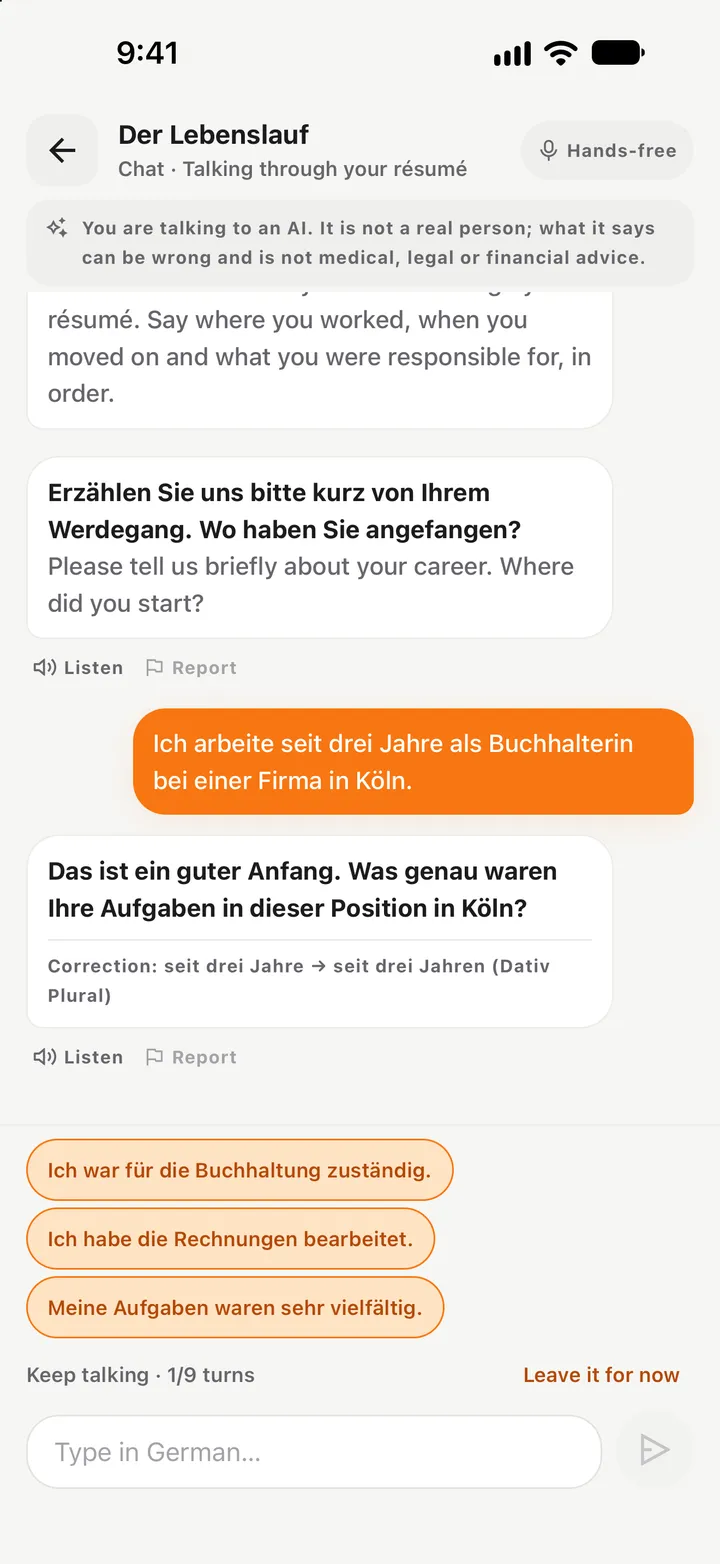
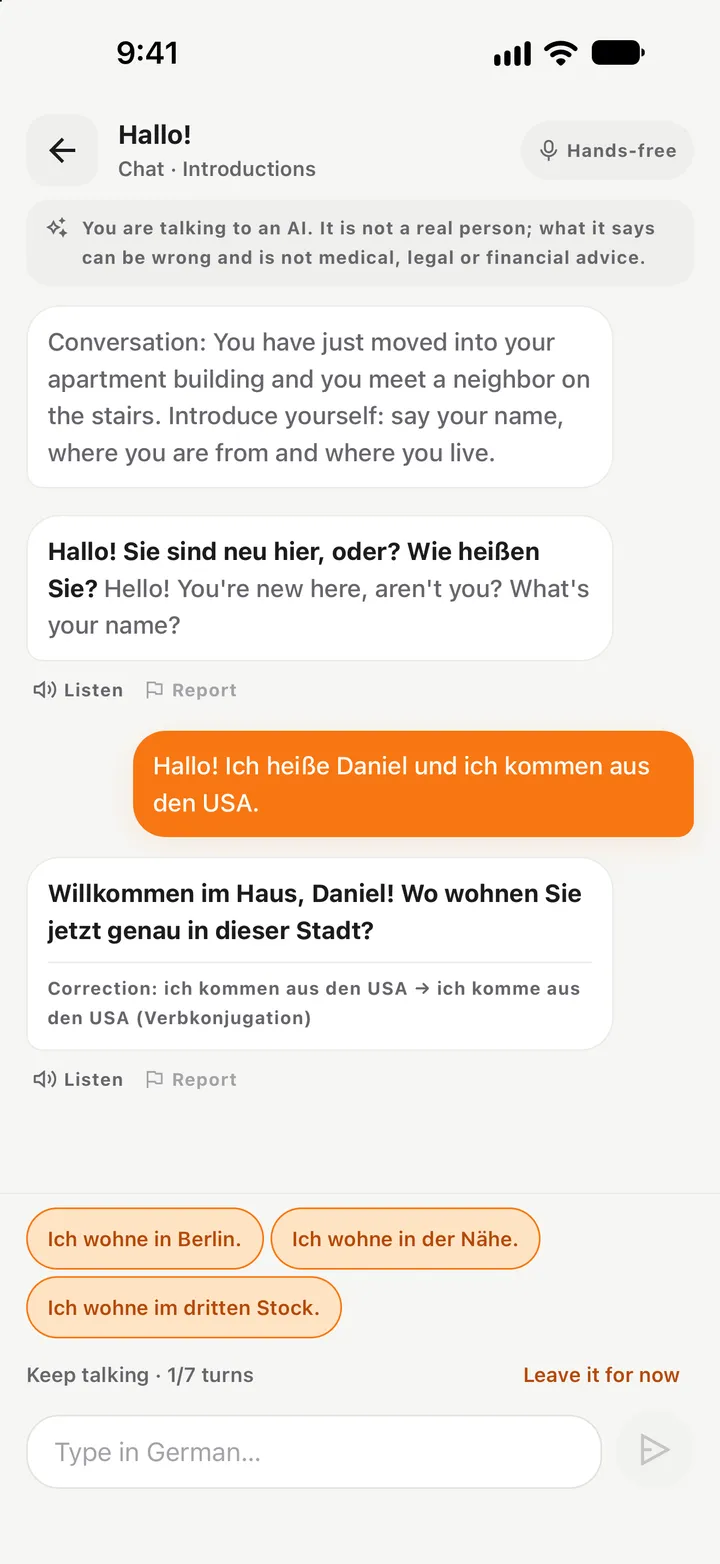
Landing 5. tur: konuşma A1 çekiminden (üç dil, döküm birebir), de sahneleri, ücretsiz satırında yapay zekâ, Beceriler'de B2/C1 resmî yazı
Claude-Session: https://claude.ai/code/session_011dWXugcvRJqz57tBPnvci7

Changed region(s): [[0.0306, 0.1841, 0.9778, 0.89], [0.1528, 0.0614, 0.6417, 0.1228]]

diff --git a/src/content/landing.ts b/src/content/landing.ts
@@ -203,7 +203,7 @@ const tr: LandingCopy = {
     path: "Patika ekranı: A1 seviyesi, şu anki ünite Tanışma ve ben, sıradaki adım konuşma (Hallo!), Devam et düğmesi.",
     unit: "Ünite ekranı: İş dünyası ünitesinin adımları; konuşma adımı tamamlanmış, sıradaki okuma.",
     conversation:
-      "Konuşma adımı: iş görüşmesinde yapay zekâ karakteri soruyor, kullanıcının cevabındaki seit drei Jahre hatası seit drei Jahren olarak düzeltiliyor, altta üç öneri.",
+      "Konuşma adımı: merdivende yeni komşuyla tanışma; yapay zekâ karakteri adını soruyor, kullanıcının cevabındaki ich kommen hatası ich komme olarak düzeltiliyor, altta üç öneri.",
     "mock-task": "Deneme sınavı, yazma bölümü: görev süresi sayacı, Almanca görev ve Türkçe açıklaması, içerik noktaları.",
     "walk-intro": "Yürüyüş modu: Türkçe ipucunu duyarsın, Almanca karşılığını sesli söylersin; bugün kalan tur sayısı.",
     home: "Öğren ekranı: günlük kelime turu, günlük hedef ve günün görevleri.",
@@ -229,30 +229,27 @@ const tr: LandingCopy = {
     more: [
       "Her Konuşma adımı Türkçe bir anlatımla başlar: kullanacağın kalıpları önce kendi dilinde okursun. Karşındakinin yapay zekâ olduğunu uygulama ekranda söyler.",
     ],
-    /* Türkçe arayüzle, Almanca kursunda yapılan konuşmadan (2026-10-01, ekran
-       görüntüsü `public/landing/tr-de/conversation-*`), B1 "Der Lebenslauf". */
+    /* Türkçe arayüzle, Almanca kursunda yapılan konuşmadan (2026-10-05, ekran
+       görüntüsü `public/landing/tr-de/conversation-*`), A1 "Hallo!": merdivende
+       yeni komşuyla tanışma. Yazarak cevaplandı, tek hata fiil çekimi. */
     label: "Almanca kursunda geçen bir konuşma",
-    scene: "B1 · İş görüşmesi",
+    scene: "A1 · Komşuyla tanışma",
     lang: "de",
-    aiName: "Görüşmeci",
+    aiName: "Komşu",
     aiTag: "yapay zekâ",
     me: "Sen",
-    ai1: "Erzählen Sie uns bitte kurz von Ihrem Werdegang. Wo haben Sie angefangen?",
-    ai1Gloss: "Lütfen kariyer yolunuzdan kısaca bahsedin. Nerede başladınız?",
+    ai1: "Hallo! Sie sind neu hier, oder? Wie heißen Sie?",
+    ai1Gloss: "Merhaba! Buraya yeni taşındınız, değil mi? Adınız ne?",
     mine: {
-      before: "Ich arbeite seit drei ",
-      wrong: "Jahre",
-      right: "Jahren",
-      after: " als Buchhalterin bei einer Firma in Köln.",
+      before: "Hallo! Ich heiße Deniz und ich ",
+      wrong: "kommen",
+      right: "komme",
+      after: " aus der Türkei.",
     },
-    fix: "seit'ten sonra Dativ gelir: seit drei Jahren.",
-    ai2: "Das ist ein interessanter Startpunkt. Was genau sind Ihre Aufgaben in dieser Position?",
+    fix: "ich ile fiil -e eki alır: ich komme.",
+    ai2: "Freut mich, Deniz! Ich bin Frau Berger. Wo wohnen Sie jetzt?",
     hintsLabel: "Takılırsan önerir:",
-    hints: [
-      "Ich bin für die Buchhaltung zuständig.",
-      "Ich arbeite in der Finanzabteilung.",
-      "Ich kümmere mich um die Rechnungen.",
-    ],
+    hints: ["Ich wohne in Berlin.", "Ich wohne hier im Haus.", "Ich wohne in der Nähe."],
     caption: "Hata sohbet sürerken düzeltilir.",
   },
   exam: {
@@ -306,7 +303,7 @@ const tr: LandingCopy = {
     id: "beceriler",
     screen: "skills",
     title: "Dili biraz biliyorsan: Beceriler.",
-    lede: "Beceriler'de istediğin seviyeden alıştırma yaparsın; Patika'da o seviyeye gelmeyi beklemen gerekmez.",
+    lede: "Beceriler'de istediğin seviyeden alıştırma yaparsın; Patika'da o seviyeye gelmeyi beklemen gerekmez. B2 ve C1'de başvuru, şikâyet ve resmî mektup yazma görevleri de var.",
     list: ["Okuma", "Dinleme", "Yazma", "Konuşma", "Dil bilgisi"],
     caption: "Beceriler, B1.",
   },
@@ -322,9 +319,9 @@ const tr: LandingCopy = {
       "Kelime çalışma, pratik, okuma, dinleme, dil bilgisi ve quiz ücretsiz ve sınırsız.",
       "Haftalık quiz ve ekran açıkken yürüyüş, günde 3 tur.",
       "Her seviyede 1 deneme sınavı.",
-      "Patika'da her seviyede 2 Konuşma ve 2 Yazma adımı; Beceriler'de 2 konuşma ve 2 yazma değerlendirmesi.",
+      "Yapay zekâyla konuşma ve yazma: Patika'da her seviyede 2 Konuşma ve 2 Yazma adımı; Beceriler'de 2 konuşma ve 2 yazma değerlendirmesi.",
     ],
-    earn: "Bunları bitirip 7 gün üst üste çalışınca 2'şer hak ve 1 deneme sınavı daha açılır; her 7 günde yine.",
+    earn: "Bunları bitirip 7 gün üst üste çalışınca 2'şer yeni hak ve 1 deneme sınavı daha gelir; her 7 günde yine.",
     premiumTitle: "Premium",
     premiumSub: "Aylık ya da yıllık abonelik.",
     premium: [
@@ -389,7 +386,7 @@ const en: LandingCopy = {
     path: "Path screen: level A1, current unit Introductions and me, next step speaking (Hallo!), Continue button.",
     unit: "Unit screen: the steps of the working-world unit; the speaking step is done, reading is next.",
     conversation:
-      "Speaking step: in a job interview the AI character asks a question; the user's mistake seit drei Jahre is corrected to seit drei Jahren; three suggestions below.",
+      "Speaking step: meeting a new neighbor on the stairs; the AI character asks your name, the mistake ich kommen is corrected to ich komme; three suggestions below.",
     "mock-task": "Mock exam, speaking section: task timer, the German task with its English explanation, content points and a Start speaking button.",
     "walk-intro": "Walk mode: you hear the cue and say the German word out loud; rounds left today.",
     home: "Learn screen: daily word round, daily goal and today's tasks.",
@@ -415,30 +412,26 @@ const en: LandingCopy = {
     more: [
       "Each Speaking step opens with a short intro in English to the phrases you'll use. The app tells you on screen that you're talking to an AI.",
     ],
-    /* İngilizce arayüzle, Almanca kursunda yapılan konuşmadan (2026-10-01, ekran
-       görüntüsü `public/landing/en-de/conversation-*`), B1 "Der Lebenslauf". */
+    /* İngilizce arayüzle, Almanca kursunda yapılan konuşmadan (2026-10-05, ekran
+       görüntüsü `public/landing/en-de/conversation-*`), A1 "Hallo!". */
     label: "A conversation from the German course",
-    scene: "B1 · Job interview",
+    scene: "A1 · Meeting your neighbor",
     lang: "de",
-    aiName: "Interviewer",
+    aiName: "Neighbor",
     aiTag: "AI",
     me: "You",
-    ai1: "Erzählen Sie uns bitte kurz von Ihrem Werdegang. Wo haben Sie angefangen?",
-    ai1Gloss: "Please tell us briefly about your career. Where did you start?",
+    ai1: "Hallo! Sie sind neu hier, oder? Wie heißen Sie?",
+    ai1Gloss: "Hello! You're new here, aren't you? What's your name?",
     mine: {
-      before: "Ich arbeite seit drei ",
-      wrong: "Jahre",
-      right: "Jahren",
-      after: " als Buchhalterin bei einer Firma in Köln.",
+      before: "Hallo! Ich heiße Daniel und ich ",
+      wrong: "kommen",
+      right: "komme",
+      after: " aus den USA.",
     },
-    fix: "seit takes the dative: seit drei Jahren. And where English says \"I have been working\", German uses the present tense.",
-    ai2: "Das ist ein guter Anfang. Was genau waren Ihre Aufgaben in dieser Position in Köln?",
+    fix: "With ich, the verb ends in -e: ich komme.",
+    ai2: "Willkommen im Haus, Daniel! Wo wohnen Sie jetzt genau in dieser Stadt?",
     hintsLabel: "Stuck? It suggests:",
-    hints: [
-      "Ich war für die Buchhaltung zuständig.",
-      "Ich habe die Rechnungen bearbeitet.",
-      "Meine Aufgaben waren sehr vielfältig.",
-    ],
+    hints: ["Ich wohne in Berlin.", "Ich wohne in der Nähe.", "Ich wohne im dritten Stock."],
     caption: "Mistakes are corrected while you talk.",
   },
   exam: {
@@ -492,7 +485,7 @@ const en: LandingCopy = {
     id: "skills",
     screen: "skills",
     title: "Know some German already? Skills.",
-    lede: "In Skills you practice at any level you like, without waiting to reach it on the Path.",
+    lede: "In Skills you practice at any level you like, without waiting to reach it on the Path. At B2 and C1 there are formal letters, applications and complaints to write.",
     list: ["Reading", "Listening", "Writing", "Speaking", "Grammar"],
     caption: "Skills, B1.",
   },
@@ -508,7 +501,7 @@ const en: LandingCopy = {
       "Vocabulary, practice, reading, listening, grammar and quizzes are free and unlimited.",
       "The weekly quiz and Walk mode with the screen on, 3 rounds a day.",
       "1 mock exam per level.",
-      "In Path, 2 Speaking and 2 Writing steps per level; in Skills, 2 speaking and 2 writing assessments.",
+      "AI speaking and writing: in Path, 2 Speaking and 2 Writing steps per level; in Skills, 2 speaking and 2 writing assessments.",
     ],
     earn: "Finish them and study 7 days in a row to unlock 2 more of each and 1 more mock exam, then again every 7 days.",
     premiumTitle: "Premium",
@@ -575,7 +568,7 @@ const de: LandingCopy = {
     path: "Pfad-Ansicht: Niveau A1, aktuelle Einheit Sich vorstellen, nächster Schritt Sprechen (Hello!) und die Schaltfläche Weiter.",
     unit: "Einheit-Ansicht im Englischkurs: My career so far ist erledigt, als Nächstes der Lesetext Three rules for a résumé.",
     conversation:
-      "Sprechen-Schritt im Englischkurs: Die KI-Figur aus der Karriereberatung fragt nach deiner Ausbildung; I work … since three years wird zu I have worked … for three years korrigiert, darunter drei Vorschläge.",
+      "Sprechen-Schritt im Englischkurs: Am ersten Tag im Sprachkurs fragt die KI-Figur Emma nach deinem Namen; I comes wird zu I come korrigiert, darunter drei Vorschläge.",
     "mock-task": "Probeprüfung, Teil Schreiben: Aufgabenzeit, Aufgabe mit Erklärung und Inhaltspunkte.",
     "walk-intro": "Gehmodus: Du hörst den Hinweis und sagst das Wort laut; verbleibende Runden heute.",
     home: "Lernen-Ansicht: tägliche Wortrunde, Tagesziel und Aufgaben des Tages.",
@@ -597,38 +590,31 @@ const de: LandingCopy = {
     id: "sprechen",
     screen: "conversation",
     title: "Lernen durch Sprechen.",
-    lede: "Beim Kennenlernen der Nachbarn, beim Arzt, bei der Wohnungsbesichtigung, im Vorstellungsgespräch, im Meeting … Alltagssituationen übst du im Gespräch mit einer KI-Figur. Sie korrigiert Fehler sofort und schlägt dir etwas vor, wenn du nicht weiterweißt. Im Chat kannst du auch schriftlich antworten.",
+    lede: "Im Café, am Flughafen, beim Arzt, im Vorstellungsgespräch, im Meeting … Alltagssituationen übst du im Gespräch mit einer KI-Figur. Sie korrigiert Fehler sofort und schlägt dir etwas vor, wenn du nicht weiterweißt. Lieber nicht sprechen? Im Chat antwortest du auch schriftlich.",
     more: [
       "Jeder Sprechen-Schritt beginnt mit einer kurzen Einführung der Wendungen auf Deutsch. Die App zeigt an, dass du mit einer KI sprichst.",
     ],
-    /* Almanca arayüzle, İngilizce kursunda yapılan konuşmadan (2026-10-01,
-       ekran görüntüsü `public/landing/de-en/conversation-*`), B1 "Writing a
-       résumé": Almanca konuşanın tipik hatası "since three years" + şimdiki zaman. */
+    /* Almanca arayüzle, İngilizce kursunda yapılan konuşmadan (2026-10-05,
+       ekran görüntüsü `public/landing/de-en/conversation-*`), A1 "Hello!":
+       dil kursunun ilk günü. Almanca konuşanın tipik hatası: I comes. */
     label: "Ein Gespräch aus dem Englischkurs",
-    scene: "B1 · Einen Lebenslauf schreiben",
+    scene: "A1 · Erster Tag im Sprachkurs",
     lang: "en",
-    aiName: "Karriereberatung",
+    aiName: "Emma",
     aiTag: "KI",
     me: "Du",
-    ai1: "Let's start with your education. What had you done before your first job?",
-    ai1Gloss: "Fangen wir mit deiner Ausbildung an. Was hattest du vor deiner ersten Stelle gemacht?",
+    ai1: "Hello! I'm Emma. What's your name?",
+    ai1Gloss: "Hallo! Ich bin Emma. Wie heißt du?",
     mine: {
-      before: "I studied economics in Ankara, and I ",
-      wrong: "work",
-      right: "have worked",
-      after: " in a bank ",
-      wrong2: "since",
-      right2: "for",
-      after2: " three years.",
+      before: "Hi Emma! My name is Lena and I ",
+      wrong: "comes",
+      right: "come",
+      after: " from Hamburg.",
     },
-    fix: "Läuft es seit drei Jahren und noch heute, steht im Englischen das Present Perfect mit for, nicht die Gegenwart mit since.",
-    ai2: "Ankara is a great city for studying economics. It sounds like you have a solid foundation for your career. What was your first professional role after you finished your degree?",
+    fix: "Nach I steht das Verb ohne -s: I come.",
+    ai2: "Nice to meet you, Lena! Are you here for the language course too?",
     hintsLabel: "Wenn du nicht weiterweißt, schlägt sie vor:",
-    hints: [
-      "I worked as an intern.",
-      "I started as a clerk.",
-      "My first job was in sales.",
-    ],
+    hints: ["My name is Lena.", "I am from Hamburg.", "I come from Germany."],
     caption: "Fehler werden mitten im Gespräch korrigiert.",
   },
   exam: {
@@ -681,7 +667,7 @@ const de: LandingCopy = {
     id: "fertigkeiten",
     screen: "skills",
     title: "Mit Vorkenntnissen: Fertigkeiten.",
-    lede: "Bei den Fertigkeiten übst du auf jedem Niveau, ohne es erst im Pfad zu erreichen.",
+    lede: "Bei den Fertigkeiten übst du auf jedem Niveau, ohne es erst im Pfad zu erreichen. Auf B2 und C1 schreibst du auch formelle Briefe, E-Mails und Berichte.",
     list: ["Lesen", "Hören", "Schreiben", "Sprechen", "Grammatik"],
     caption: "Fertigkeiten, B1.",
   },
@@ -697,7 +683,7 @@ const de: LandingCopy = {
       "Vokabeln, Üben, Lesen, Hören, Grammatik und Quiz sind kostenlos und unbegrenzt.",
       "Das Wochen-Quiz und der Gehmodus bei eingeschaltetem Bildschirm, 3 Runden pro Tag.",
       "1 Probeprüfung pro Niveau.",
-      "Pro Niveau 2 Sprechen- und 2 Schreiben-Schritte im Pfad, bei den Fertigkeiten 2 Sprech- und 2 Schreibbewertungen.",
+      "Sprechen und Schreiben mit der KI: pro Niveau 2 Sprechen- und 2 Schreiben-Schritte im Pfad, bei den Fertigkeiten 2 Sprech- und 2 Schreibbewertungen.",
     ],
     earn: "Schließt du sie ab und lernst 7 Tage am Stück, kommen je 2 weitere und 1 Probeprüfung dazu, alle 7 Tage wieder.",
     premiumTitle: "Premium",
